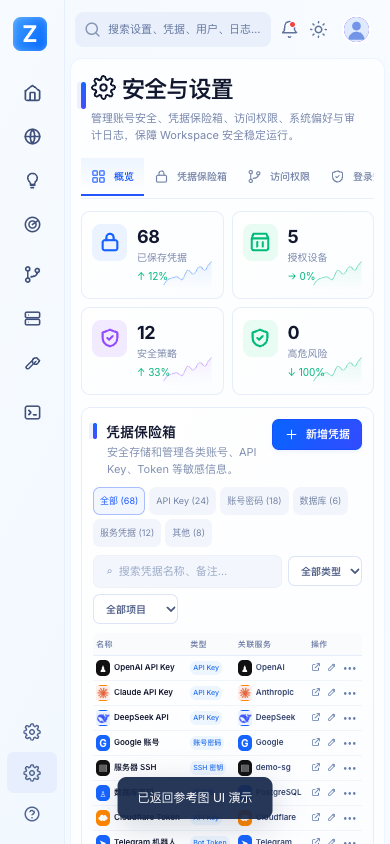
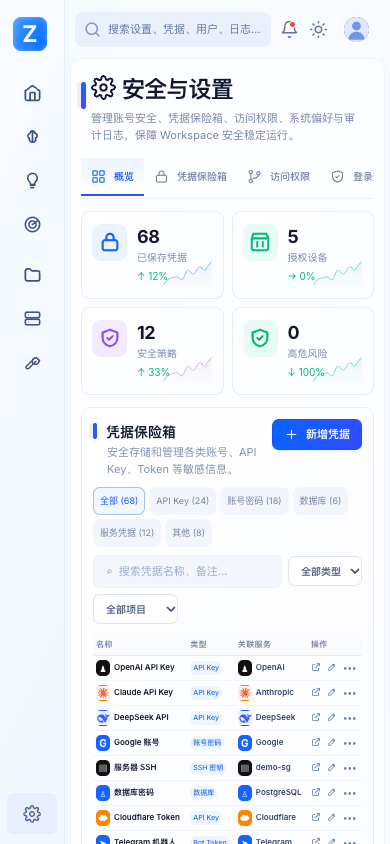
Simplify workspace sidebar footer

diff --git a/workbench/portal/assets/reference-ui.js b/workbench/portal/assets/reference-ui.js
@@ -215,7 +215,7 @@ function stackedOverviewChart(rows){if(!rows.length)return '<div class="empty-st
 
 function actualPage(){return livePage()}
 const demoRender=render;
-render=function(){let create=$('#overviewCreate');if(!create){$('.topbar-right').insertAdjacentHTML('afterbegin',btn('新建　⌄','overview-create','primary overview-create','plus'));create=$('.overview-create');create.id='overviewCreate'}create.hidden=view!=='overview';document.body.classList.toggle('is-live',mode==='actual');if(mode==='demo')return demoRender();$('#workspacePage').innerHTML=`<div class="canvas">${actualPage()}</div>`;if($('#liveMemoryType'))$('#liveMemoryType').value=memFilter||'全部类型';$('#dataMode').title='真实 API 数据 · 每30秒刷新；接口状态可查看最近成功时间';$('#dataMode').textContent='实际数据';const intelTag=$('.nav-item[data-view=intel] .nav-tag');if(intelTag)intelTag.textContent=actualIntel?'已接入':'待连接';$('#navMemCount').textContent=actualStats?.total_nodes?.toLocaleString()??'—';$$('.nav-item[data-view=memory] use').forEach(x=>x.setAttribute('href','#i-globe'));$$('.nav-item[data-view=projects] use').forEach(x=>x.setAttribute('href','#i-git-branch'));$$('.sidebar-action:not([data-view]) use').slice(0,1).forEach(x=>x.setAttribute('href','#i-settings'))};
+render=function(){let create=$('#overviewCreate');if(!create){$('.topbar-right').insertAdjacentHTML('afterbegin',btn('新建　⌄','overview-create','primary overview-create','plus'));create=$('.overview-create');create.id='overviewCreate'}create.hidden=view!=='overview';document.body.classList.toggle('is-live',mode==='actual');if(mode==='demo')return demoRender();$('#workspacePage').innerHTML=`<div class="canvas">${actualPage()}</div>`;if($('#liveMemoryType'))$('#liveMemoryType').value=memFilter||'全部类型';$('#dataMode').title='真实 API 数据 · 每30秒刷新；接口状态可查看最近成功时间';$('#dataMode').textContent='实际数据';const intelTag=$('.nav-item[data-view=intel] .nav-tag');if(intelTag)intelTag.textContent=actualIntel?'已接入':'待连接';$('#navMemCount').textContent=actualStats?.total_nodes?.toLocaleString()??'—';$$('.nav-item[data-view=memory] use').forEach(x=>x.setAttribute('href','#i-globe'));$$('.nav-item[data-view=projects] use').forEach(x=>x.setAttribute('href','#i-git-branch'))};
 async function api(path,options={}){const r=await fetch(path,{signal:AbortSignal.timeout(15000),cache:'no-store',credentials:'same-origin',headers:{'Content-Type':'application/json'},...options});if(!r.ok)throw Error('请求失败（HTTP '+r.status+'）');return r.json()}
 async function loadActual(){
  if(refreshing)return;refreshing=true;const hadData=!!lastRefresh;const focus=document.activeElement;
@@ -229,7 +229,6 @@ async function loadActual(){
  dataError=Object.entries(sourceStatus).filter(([,s])=>s==='error').map(([k])=>({items:'清单',creds:'凭据',stats:'记忆统计',memories:'记忆列表',timeseries:'增长统计',overviewTimeseries:'总览时间范围统计',tags:'标签',operations:'处理任务',documents:'文档',graph:'图谱',tls:'源站证书',system:'服务器',containers:'容器',security:'安全配置',activity:'审计',intel:'采集服务'}[k])).join('、');
  lastRefresh=new Date().toISOString();refreshing=false;
  if(mode==='actual'&&!$('#uiDialog').open){const sc=$('#scrollArea').scrollTop;const id=focus?.id,value=focus?.value;render();$('#scrollArea').scrollTop=sc;if(id&&$('#'+id)){const input=$('#'+id);if(value!==undefined)input.value=value;input.focus()}}
- if(actualSystem){$('#nodeMeta').textContent=actualSystem.cpuCount+' vCPU · '+bytes(actualSystem.memory.total);$('.node-info strong').textContent=actualSystem.hostname;$('#nodeDot').style.background='#00bd83'}else $('#nodeDot').style.background='#a6b2ca';
 }
 async function searchLiveMemories(append=false){const seq=++memorySearchSeq;try{sourceStatus.memories='loading';const offset=append?actualMemories.length:0;const d=await api('/v1/default/banks/'+encodeURIComponent(BANK)+'/memories/list?limit=50&offset='+offset+(query?'&q='+encodeURIComponent(query):'')+(memFilter?'&type='+encodeURIComponent(memFilter):'')+(memoryTag?'&tags='+encodeURIComponent(memoryTag):''));if(seq!==memorySearchSeq)return;actualMemories=append?[...actualMemories,...d.items]:d.items;memoryTotal=d.total;sourceStatus.memories='ok';selectedMemory=0;render();if($('#memorySearch')){$('#memorySearch').value=query;$('#memorySearch').focus()}}catch{sourceStatus.memories='error';render()}}
 function formFields(kind,record={}){if(kind==='creds')return `<label for="editName">名称 *</label><input id="editName" required maxlength="80" value="${esc(record.name||'')}"><label for="editKind">类型</label><select id="editKind">${['api','ssh','cloudflare','github','db','other'].map(x=>`<option ${record.kind===x?'selected':''}>${x}</option>`).join('')}</select><label for="editScope">适用范围</label><input id="editScope" value="${esc(record.scope||'')}"><label for="editUser">账号</label><input id="editUser" autocomplete="off" value="${esc(record.username||'')}"><label for="editSecret">Token / API Key（留空保留已有值）</label><input id="editSecret" type="password" autocomplete="new-password"><label for="editPassword">密码（留空保留已有值）</label><input id="editPassword" type="password" autocomplete="new-password"><label for="editNote">备注</label><textarea id="editNote" rows="3">${esc(record.note||'')}</textarea>`;return `<label for="editName">名称 *</label><input id="editName" required maxlength="80" value="${esc(record.name||'')}"><label for="editUrl">访问地址</label><input id="editUrl" type="url" placeholder="https://…" value="${esc(record.url||'')}"><label for="editAdmin">管理台</label><input id="editAdmin" value="${esc(record.adminUrl||'')}"><label for="editRepo">代码仓库</label><input id="editRepo" value="${esc(record.repoUrl||'')}"><label for="editPath">部署路径</label><input id="editPath" value="${esc(record.deployPath||'')}"><label for="editStack">技术栈 / 标签</label><input id="editStack" value="${esc(record.stack||'')}"><label for="editStatus">状态</label><select id="editStatus">${[['active','运行中'],['planned','规划中'],['internal','内网'],['offline','已下线']].map(([v,t])=>`<option value="${v}" ${record.status===v?'selected':''}>${t}</option>`).join('')}</select><label for="editNote">描述</label><textarea id="editNote" rows="3">${esc(record.note||'')}</textarea>`}
@@ -250,7 +249,6 @@ $('.brand-collapse').addEventListener('click',()=>document.body.classList.toggle
 let theme='light';try{theme=localStorage.getItem('wb-theme')||'light'}catch{}document.documentElement.dataset.theme=theme;
 $('#btnTheme').addEventListener('click',()=>{theme=theme==='dark'?'light':'dark';document.documentElement.dataset.theme=theme;try{localStorage.setItem('wb-theme',theme)}catch{}});
 $$('[data-view]').forEach(b=>b.addEventListener('click',()=>go(b.dataset.view)));
-$$('.sidebar-action:not([data-view])').forEach((b,i)=>b.addEventListener('click',()=>i===0?go('infra'):dialog('帮助与反馈','<p>通过左侧导航进入记忆、灵感、采集、项目、基础设施、工具与设置。</p><p>按 ⌘K / Ctrl+K 快速搜索；点击顶部 UI 演示可切换现有接口数据。</p>')));
 window.addEventListener('popstate',()=>go(location.hash.slice(1)||'overview',true));
 document.addEventListener('keydown',e=>{if(e.key==='Enter'&&$('#uiDialog').open&&$('#intelName')&&e.target.tagName==='INPUT'){e.preventDefault();intelCommand('save',intelEditing?.id||'', $('#dialogBody [data-intel=save]'));return}if((e.metaKey||e.ctrlKey)&&e.key.toLowerCase()==='k'){e.preventDefault();$('#palette').classList.contains('is-open')?closePalette():openPalette()}if(e.key==='Escape'){closePalette();if($('#uiDialog').open)closeDialog()}if((e.key==='Enter'||e.key===' ')&&e.target.matches('[data-memory],[data-idea]')){e.preventDefault();e.target.click()}});
 $('#uiDialog').addEventListener('cancel',e=>{e.preventDefault();closeDialog()});$('#uiDialog form').addEventListener('submit',e=>{e.preventDefault();if($('#intelName'))intelCommand('save',intelEditing?.id||'', $('#dialogBody [data-intel=save]'));else if(editing)saveEditor();else closeDialog()});$('#uiDialog header button').addEventListener('click',e=>{e.preventDefault();closeDialog()});
@@ -310,7 +308,7 @@ default:pending(t.textContent.trim()||'此功能');
 });
 function openTool(name){const url=toolUrls[name];if(url)window.open(url,'_blank','noopener,noreferrer');else dialog(name,`<p>工具入口待配置。</p><p class="ui-note">参考图中的 ${esc(name)} 已保留，实际访问地址与接口将后续统一确认。</p>`)}
 go(titles[location.hash.slice(1)]?location.hash.slice(1):'overview',true);
-if(mode==='actual'){$('#nodeMeta').textContent='等待实时采样';$('#nodeDot').style.background='#a6b2ca';loadActual();}
+if(mode==='actual')loadActual();
 refreshTimer=setInterval(()=>{if(mode==='actual'&&!document.hidden&&!$('#uiDialog').open)loadActual()},window.WORKSPACE_CONFIG?.refreshMs||30000);
 document.addEventListener('visibilitychange',()=>{if(!document.hidden&&mode==='actual')loadActual()});
 })();

diff --git a/workbench/portal/index.html b/workbench/portal/index.html
@@ -62,33 +62,11 @@
         </button>
       </div>
 
-      <div class="nav-group">
-        <div class="nav-label">外部服务</div>
-        <a class="nav-item" href="/console" target="_blank" rel="noopener">
-          <svg class="ico"><use href="#i-terminal"/></svg><span>Hindsight 控制台</span>
-        </a>
-      </div>
     </nav>
 
-    <div class="sidebar-foot">
-      <div class="node-card">
-        <span class="node-dot" id="nodeDot"></span>
-        <div class="node-info">
-          <strong>demo-sg</strong>
-          <span id="nodeMeta">192.0.2.10 · 2c4g</span>
-        </div>
-      </div>
-    </div>
-
     <div class="sidebar-actions">
-      <button class="sidebar-action">
-        <svg class="ico"><use href="#i-activity"/></svg><span>系统状态</span>
-      </button>
       <button class="sidebar-action" data-view="settings">
         <svg class="ico"><use href="#i-settings"/></svg><span>设置</span>
-      </button>
-      <button class="sidebar-action">
-        <svg class="ico"><use href="#i-help"/></svg><span>帮助与反馈</span>
       </button>
     </div>
   </aside>
@@ -190,5 +168,5 @@
 <symbol id="i-swirl" viewBox="0 0 24 24"><path d="M12 3c5-4 10 1 7 6 6 1 5 9-1 9-1 6-9 5-10 0-6 1-9-6-4-9-3-5 4-9 8-6Z"/><path d="m12 3 6 10-6 4-6-4 6-4 6 4M6 13V7l6-4M12 17l6 1M8 18l-4-9"/></symbol>
 </svg>
 
-<script src="/assets/reference-ui.js?v=20261025-search-layout1"></script>
+<script src="/assets/reference-ui.js?v=20261025-sidebar-cleanup1"></script>
 </body></html>
